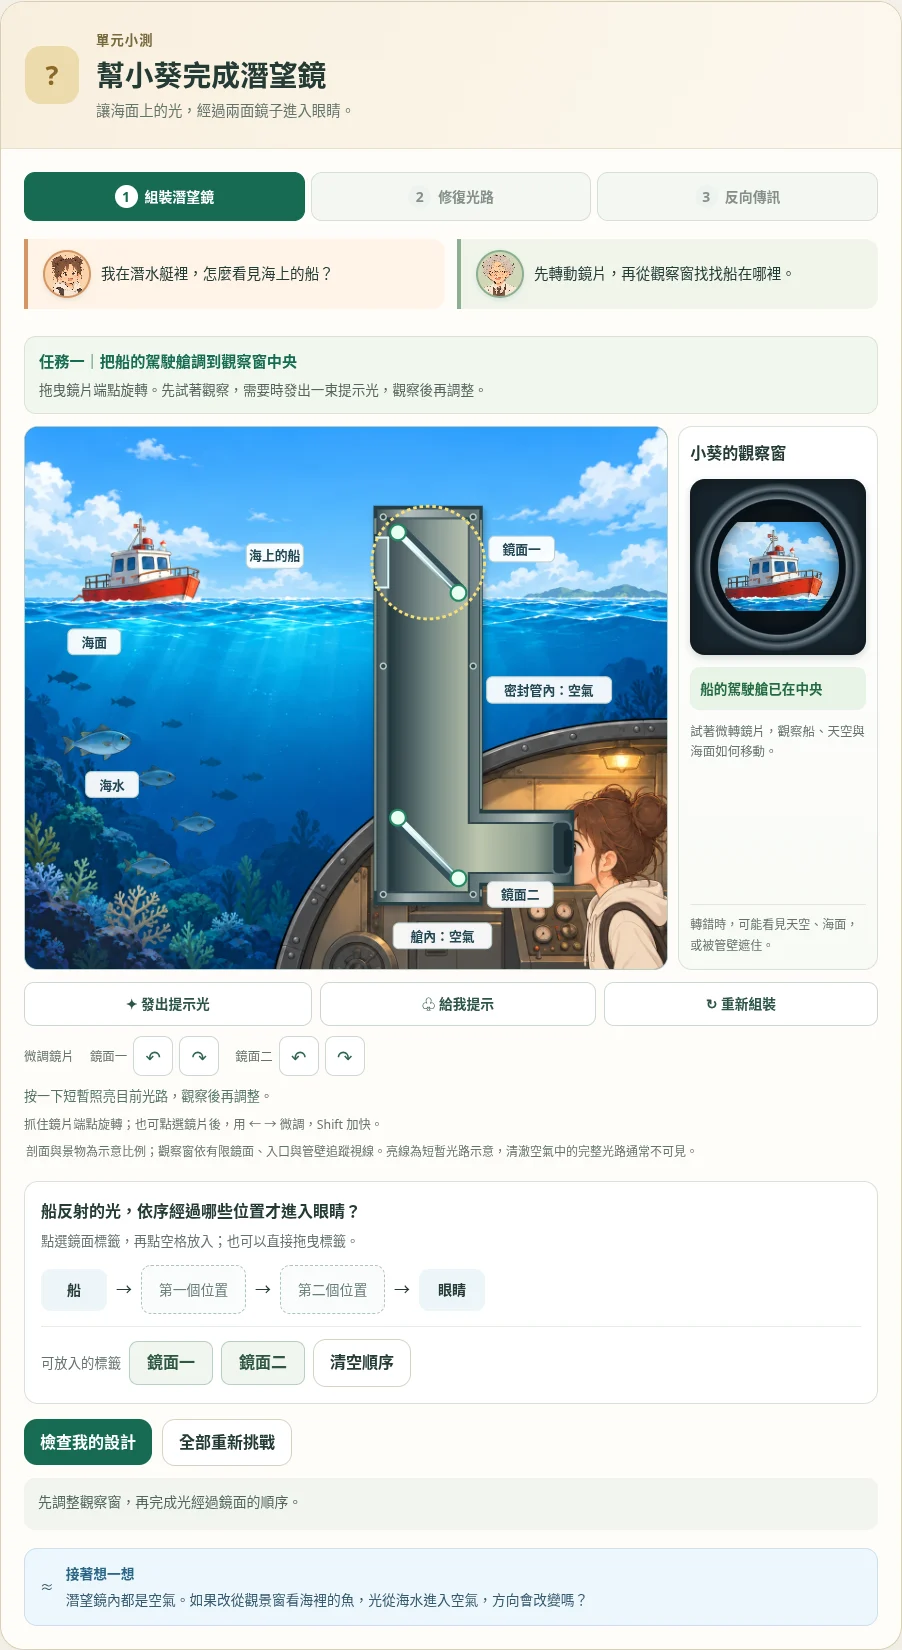
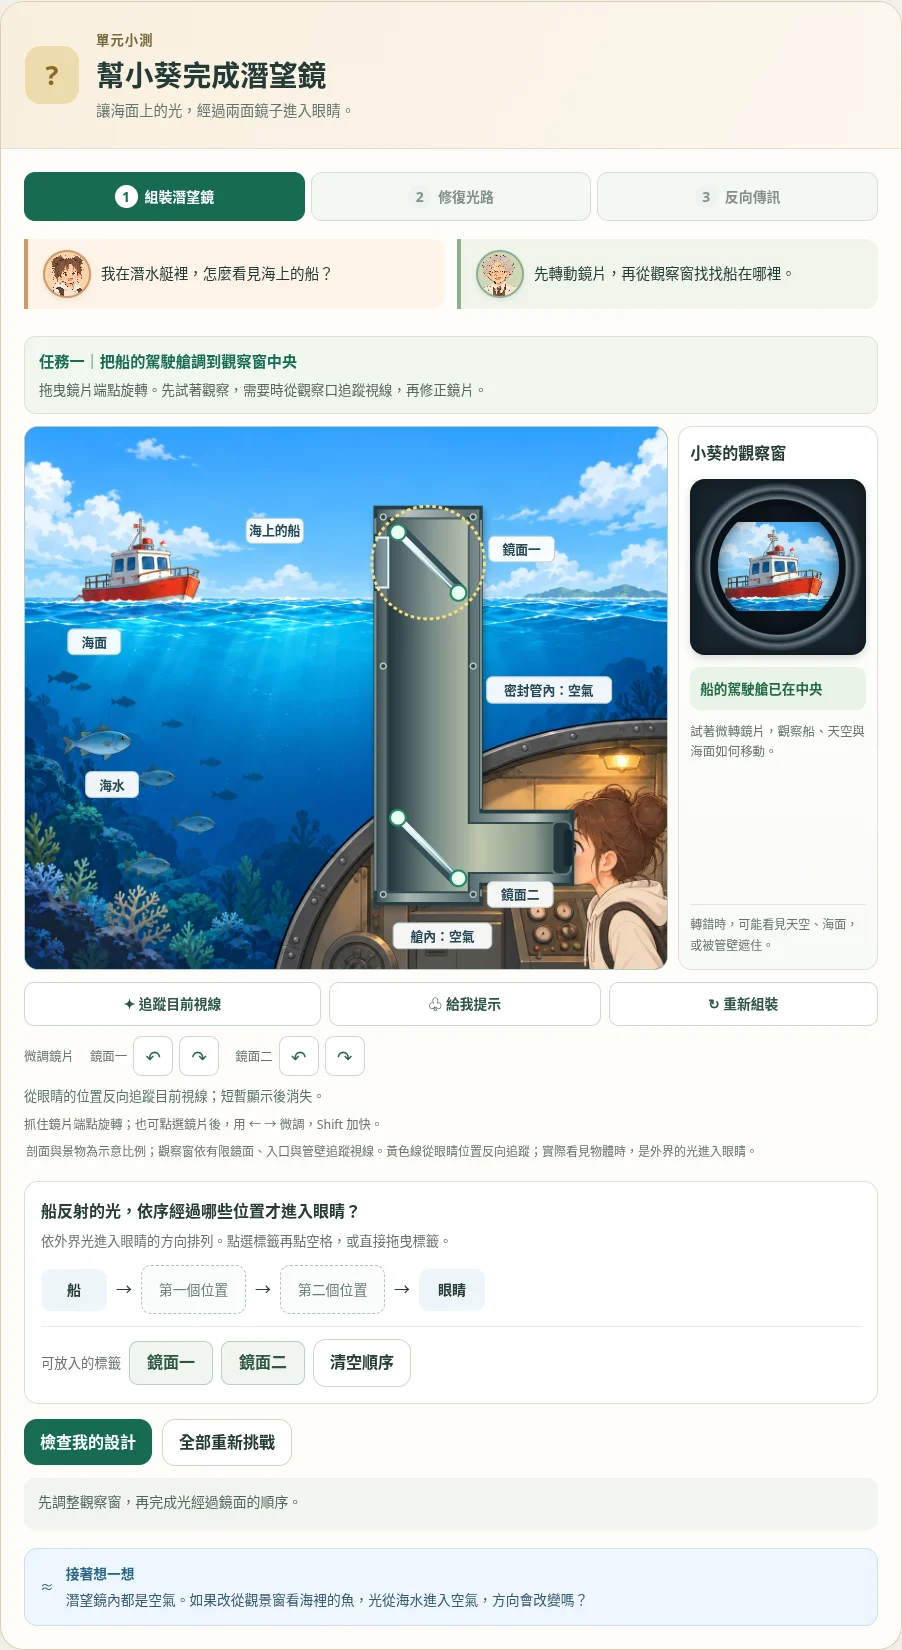
Trace every periscope hint outward from Xiaokui's eye position

diff --git a/units/1/parts/1.2/index.html b/units/1/parts/1.2/index.html
@@ -402,7 +402,7 @@
                 <div class="dialogue dialogue--xiaokui"><span class="speaker"><span class="visually-hidden">小葵</span></span><p id="periscope-student">我在潛水艇裡，怎麼看見海上的船？</p></div>
                 <div class="dialogue"><span class="speaker"><span class="visually-hidden">阿公</span></span><p id="periscope-grandpa">先轉動鏡片，再從觀察窗找找船在哪裡。</p></div>
               </div>
-              <div class="periscope-task"><div><strong id="periscope-task-title">任務一｜把船的駕駛艙調到觀察窗中央</strong><p id="periscope-task-copy">拖曳鏡片端點旋轉。先試著觀察，需要時發出一束提示光，觀察後再調整。</p></div></div>
+              <div class="periscope-task"><div><strong id="periscope-task-title">任務一｜把船的駕駛艙調到觀察窗中央</strong><p id="periscope-task-copy">拖曳鏡片端點旋轉。先試著觀察，需要時從觀察口追蹤視線，再修正鏡片。</p></div></div>
               <div class="periscope-workspace">
                 <div class="periscope-cutaway">
                   <svg id="periscope-scene" viewBox="0 0 900 760" role="group" aria-labelledby="periscope-scene-title periscope-scene-desc">
@@ -432,13 +432,13 @@
                 </div>
                 <aside class="periscope-view" aria-label="從潛望鏡看到的景象"><h3>小葵的觀察窗</h3><div class="periscope-lens-frame"><canvas id="periscope-view" width="240" height="240" role="img" aria-label="觀察窗載入中"></canvas></div><div id="periscope-view-state" class="periscope-view-state" role="status">正在準備觀察窗…</div><p id="periscope-view-copy">景象隨鏡片轉動；管壁擋住的區域會變暗。</p><div class="periscope-view-meter">轉錯時，可能看見天空、海面，或被管壁遮住。</div></aside>
               </div>
-              <div class="periscope-controls"><button type="button" id="periscope-pulse" aria-describedby="periscope-pulse-note">✦ 發出提示光</button><button type="button" id="periscope-hint">♧ 給我提示</button><button type="button" id="periscope-reset-stage">↻ 重新組裝</button><button type="button" id="periscope-signal" class="periscope-signal" aria-pressed="false" hidden disabled>發送訊號光</button></div>
+              <div class="periscope-controls"><button type="button" id="periscope-pulse" aria-describedby="periscope-pulse-note">✦ 追蹤目前視線</button><button type="button" id="periscope-hint">♧ 給我提示</button><button type="button" id="periscope-reset-stage">↻ 重新組裝</button><button type="button" id="periscope-signal" class="periscope-signal" aria-pressed="false" hidden disabled>發送訊號光</button></div>
               <div class="periscope-fine" id="periscope-fine" role="group" aria-label="鏡片精細調整"><span>微調鏡片</span><div><span>鏡面一</span><button type="button" data-fine="0,-0.5" aria-label="鏡面一逆時針微調半度">↶</button><button type="button" data-fine="0,0.5" aria-label="鏡面一順時針微調半度">↷</button></div><div><span>鏡面二</span><button type="button" data-fine="1,-0.5" aria-label="鏡面二逆時針微調半度">↶</button><button type="button" data-fine="1,0.5" aria-label="鏡面二順時針微調半度">↷</button></div></div>
-              <p class="periscope-pulse-note" id="periscope-pulse-note" role="status">按一下短暫照亮目前光路，觀察後再調整。</p>
+              <p class="periscope-pulse-note" id="periscope-pulse-note" role="status">從眼睛的位置反向追蹤目前視線；短暫顯示後消失。</p>
               <p class="periscope-keyboard" id="periscope-drag-help">抓住鏡片端點旋轉；也可點選鏡片後，用 ← → 微調，Shift 加快。</p>
               <p class="periscope-hint" id="periscope-hint-copy" role="status" hidden></p>
-              <p class="periscope-model-note">剖面與景物為示意比例；觀察窗依有限鏡面、入口與管壁追蹤視線。亮線為短暫光路示意，清澈空氣中的完整光路通常不可見。</p>
-              <div class="periscope-question" id="periscope-question-0"><h3>船反射的光，依序經過哪些位置才進入眼睛？</h3><p>點選鏡面標籤，再點空格放入；也可以直接拖曳標籤。</p><div class="periscope-order"><span class="path-end">船</span><span aria-hidden="true">→</span><button type="button" class="periscope-slot" data-slot="0" aria-label="第一個反射位置，尚未填入">第一個位置</button><span aria-hidden="true">→</span><button type="button" class="periscope-slot" data-slot="1" aria-label="第二個反射位置，尚未填入">第二個位置</button><span aria-hidden="true">→</span><span class="path-end">眼睛</span></div><div class="periscope-chips"><small>可放入的標籤</small><button type="button" draggable="true" class="periscope-chip" data-chip="0" aria-pressed="false">鏡面一</button><button type="button" draggable="true" class="periscope-chip" data-chip="1" aria-pressed="false">鏡面二</button><button type="button" id="periscope-clear-order" class="secondary">清空順序</button></div></div>
+              <p class="periscope-model-note">黃色輔助線從小葵的眼睛位置反向追蹤視線。實際看見物體時，是外界的光進入眼睛；剖面與景物為示意比例。</p>
+              <div class="periscope-question" id="periscope-question-0"><h3>船反射的光，依序經過哪些位置才進入眼睛？</h3><p>依外界光進入眼睛的方向排列。點選標籤再點空格，或直接拖曳標籤。</p><div class="periscope-order"><span class="path-end">船</span><span aria-hidden="true">→</span><button type="button" class="periscope-slot" data-slot="0" aria-label="第一個反射位置，尚未填入">第一個位置</button><span aria-hidden="true">→</span><button type="button" class="periscope-slot" data-slot="1" aria-label="第二個反射位置，尚未填入">第二個位置</button><span aria-hidden="true">→</span><span class="path-end">眼睛</span></div><div class="periscope-chips"><small>可放入的標籤</small><button type="button" draggable="true" class="periscope-chip" data-chip="0" aria-pressed="false">鏡面一</button><button type="button" draggable="true" class="periscope-chip" data-chip="1" aria-pressed="false">鏡面二</button><button type="button" id="periscope-clear-order" class="secondary">清空順序</button></div></div>
               <div class="periscope-question" id="periscope-question-1" hidden><h3>哪一片鏡子被轉動了？</h3><p>比較原本的路線，先作判斷，再試著修復。</p><div class="periscope-choice-row"><button class="periscope-answer" type="button" data-diagnosis="0" aria-pressed="false">鏡面一</button><button class="periscope-answer" type="button" data-diagnosis="1" aria-pressed="false">鏡面二</button></div></div>
               <div class="periscope-question" id="periscope-question-2" hidden><h3>鏡子不動，從眼睛的位置沿原光路反向發出訊號，會怎麼走？</h3><p>先預測，再按「發送訊號光」比較藍光與原本的路線。</p><div class="periscope-answer-list"><button class="periscope-answer" type="button" data-prediction="same" aria-pressed="false">沿完整的原路徑返回，從上方入口照向船。</button><button class="periscope-answer" type="button" data-prediction="inside" aria-pressed="false">只有管內的路徑重合，離開入口後方向會不同。</button><button class="periscope-answer" type="button" data-prediction="turn" aria-pressed="false">兩次反射後會換一條路，需要再調鏡子才能照向船。</button></div></div>
               <div class="periscope-footer"><button type="button" id="periscope-check" class="action">檢查我的設計</button><button type="button" id="periscope-next" class="action" hidden>前往修復光路 →</button><button type="button" id="periscope-restart" class="secondary">全部重新挑戰</button></div>
@@ -474,6 +474,6 @@
   <script type="module" src="assets/reflection-3d.js?v=46"></script>
   <script type="module" src="assets/laser-reflection.js?v=36"></script>
   <script type="module" src="assets/reversible-light.js?v=3"></script>
-  <script type="module" src="assets/periscope.js?v=5"></script>
+  <script type="module" src="assets/periscope.js?v=6"></script>
 </body>
 </html>

diff --git a/units/1/parts/1.2/assets/periscope.js b/units/1/parts/1.2/assets/periscope.js
@@ -1,4 +1,4 @@
-import {OPTICS, mirror, viewRay, exteriorSample, observe, traceRay, returnSignal} from './periscope-optics.mjs';
+import {OPTICS, mirror, viewRay, exteriorSample, observe, traceSightline, returnSignal} from './periscope-optics.mjs?v=2';
 import {FLASH_MS,STATIC_FLASH_MS,REST_MS,pulseOpacity} from './periscope-pulse.mjs?v=2';
 
 const root=document.querySelector('#unit-quiz');
@@ -35,10 +35,6 @@ if(root) {
       add(`M${x-dx*13-dy*7},${y-dy*13+dx*7}L${x},${y}L${x-dx*13+dy*7},${y-dy*13-dx*7}`,'light-arrow',color);
     }
   }
-  function forwardRay() {
-    const ray=traceRay([508.0001,190,0],[1,0,0],state.angles);
-    return {...ray,points:[[170,190,0],...ray.points]};
-  }
   function signalPoints(result) {
     const points=result.ray.points.map(p=>[...p]);
     if(result.endpoint)points.push(result.endpoint);
@@ -74,10 +70,10 @@ if(root) {
     root.dataset.pulseStatus=busy?'running':waiting?'cooldown':'idle';
     const button=$('#periscope-pulse');
     button.hidden=state.stage===2;button.disabled=busy||waiting;
-    button.textContent=busy?'✦ 提示光亮起':waiting?'✦ 稍後可再試':'✦ 發出提示光';
+    button.textContent=busy?'✦ 視線追蹤中':waiting?'✦ 稍後可再試':'✦ 追蹤目前視線';
     $('#periscope-hint').disabled=state.stage!==2&&(busy||waiting);
     $('#periscope-pulse-note').hidden=state.stage===2;
-    $('#periscope-pulse-note').textContent=busy?'這次光路短暫亮起，看看光在哪裡反射或被擋住。':waiting?'提示光已熄滅。先調整鏡片，再試一次。':'按一下短暫照亮目前光路，觀察後再調整。';
+    $('#periscope-pulse-note').textContent=busy?'從小葵的觀察口出發，看看這次視線通往哪裡。':waiting?'追蹤已結束。先調整鏡片，再追蹤一次。':'從眼睛的位置反向追蹤目前視線；短暫顯示後消失。';
   }
   function cancelPulse(reset=false) {
     cancelAnimationFrame(pulseFrame);clearTimeout(pulseEndTimer);pulse=null;
@@ -114,7 +110,7 @@ if(root) {
     const now=performance.now();
     if(state.stage===2 || pulse || dragging || document.hidden || now<nextPulseAt)return;
     const duration=reducedMotion.matches?STATIC_FLASH_MS:FLASH_MS;
-    const shot={ray:forwardRay(),opacity:reducedMotion.matches?1:0,showNormal:state.hint>=2};
+    const shot={ray:traceSightline(state.angles),opacity:reducedMotion.matches?1:0,showNormal:state.hint>=2};
     pulse=shot;nextPulseAt=now+duration+REST_MS;root.dataset.pulseId=String(++pulseCount);
     render();
     const animate=time=>{
@@ -190,6 +186,7 @@ if(root) {
     $('#periscope-next').hidden=!state.done[state.stage]||state.stage===2;$('#periscope-next').textContent=state.stage===0?'前往修復光路 →':'前往反向傳訊 →';
     $('#periscope-complete').hidden=!state.done[2];
     $('#periscope-drag-help').textContent=state.stage===2?'這一關固定鏡面。先預測，再比較黃色原路線與藍色訊號光。':'抓住鏡片端點旋轉；也可點選鏡片後，用 ← → 微調，Shift 加快。';
+    $('.periscope-model-note').textContent=state.stage===2?'黃色是原本進入眼睛的光路，藍色訊號光從原眼睛位置反向發出；剖面與景物為示意比例。':'黃色輔助線從小葵的眼睛位置反向追蹤視線。實際看見物體時，是外界的光進入眼睛；剖面與景物為示意比例。';
     drawOptics();renderView();
   }
   function schedule(){if(!pending)pending=requestAnimationFrame(render);}
@@ -247,7 +244,7 @@ if(root) {
   $$('[data-prediction]').forEach(b=>b.addEventListener('click',()=>{invalidate();state.prediction=b.dataset.prediction;state.verified=false;state.signal=false;render();}));
   $('#periscope-pulse').addEventListener('click',emitPulse);
   const hints=[
-    ['先讓眼睛收到下方鏡片反射的光，再觀察上方鏡片把視線帶向哪裡。','看天空或海面時，外界光路仍接通；全暗則先檢查視線有沒有撞上管壁。','沿法線比較入射與反射方向。若出現光斑，表示這條光在那裡被擋住。'],
+    ['先確認視線能到下方鏡片，再觀察上方鏡片把視線帶向哪裡。','看天空或海面時，外界光路仍接通；全暗則先檢查視線有沒有撞上管壁。','沿法線比較入射與反射方向。若出現光斑，表示這條光在那裡被擋住。'],
     ['故障前，下方鏡片已把光送進眼睛。先比較光路從哪一處開始偏離。','法線與鏡面垂直。每一處反射都要讓入射角等於反射角。','只剩天空不代表光消失了，而是看向了另一個方向。'],
     ['將傳播方向反過來，入射線與反射線的角色會交換。','鏡子固定時，同一反射點兩側的角度仍相等。','藍光由原本眼睛的位置出發；比較它和黃色原路線是否完整重合。']
   ];
@@ -258,8 +255,8 @@ if(root) {
     cancelPulse(true);state.stage=stage;state.hint=0;state.signal=false;state.verified=false;
     $('#periscope-hint-copy').hidden=true;
     const content=[
-      ['我在潛水艇裡，怎麼看見海上的船？','先轉動鏡片，再從觀察窗找找船在哪裡。','任務一｜把船的駕駛艙調到觀察窗中央','拖曳鏡片端點旋轉。先試著觀察，需要時發出一束提示光，觀察後再調整。'],
-      ['剛才明明看見船，怎麼現在偏向天空了？','先判斷哪片鏡子被轉動，再把景象修回來。','任務二｜找出故障，讓船重新回到中央','先選擇你的判斷，再拖動鏡片修復；需要時可發出一束提示光。'],
+      ['我在潛水艇裡，怎麼看見海上的船？','先轉動鏡片，再從觀察窗找找船在哪裡。','任務一｜把船的駕駛艙調到觀察窗中央','拖曳鏡片端點旋轉。先試著觀察，需要時從觀察口追蹤視線，再修正鏡片。'],
+      ['剛才明明看見船，怎麼現在偏向天空了？','先判斷哪片鏡子被轉動，再把景象修回來。','任務二｜找出故障，讓船重新回到中央','先選擇你的判斷，再拖動鏡片修復；需要時從觀察口反向追蹤視線。'],
       ['我能沿同一條路，把訊號送回船上嗎？','鏡片保持不動，先預測，再發送藍色訊號光。','任務三｜讓訊號沿原光路返回','暫以訊號光源替換眼睛；黃色是原入眼光線，藍光從同一位置反向發出。']
     ][stage];
     ['#periscope-student','#periscope-grandpa','#periscope-task-title','#periscope-task-copy'].forEach((id,i)=>$(id).textContent=content[i]);

diff --git a/docs/reviews/unit-1.2-periscope/review.md b/docs/reviews/unit-1.2-periscope/review.md
@@ -83,3 +83,17 @@
 本輪操作及回歸結果保存於 `flash-tests.log`。
 
 本輪共 **44 項通過、0 失敗**（含外層項目）：潛望鏡 21 項、相鄰第三至六區回歸 23 項。人工對照整束亮起、光斑、熄滅三張截圖，確認全路徑可見、提示光沒有箭頭或圈叉；桌面與手機的角色、觀察窗及操作配置仍正常。
+
+## 提示起點：由眼睛位置反向追蹤（2026-10-28）
+
+使用者要求提示一律從小葵眼睛所在的觀察口出發，依當下鏡片角度前進。已移除原本「固定船上物點→上方鏡片」的提示，改用 `traceSightline()`，起點固定為 `[755,590,0]`，初始方向向左，與觀察窗的中央視線相同。
+
+- 下方鏡片偏轉時，可在尚未到上方鏡片前撞到管壁。上方鏡片偏轉時，延伸可能指向海面或天空；不論是否對準船，都從相同眼位出發。
+- 管內沿用有限鏡片、鏡背及封閉管道的三維追跡。管外保持出射方向，以插畫船體的粗略輪廓、海面 y=250 或畫面上／左邊界裁切。船體輪廓為插畫顯示近似，並非完整三維船體；觀察窗遠景取樣比例與剖面不同的限制維持原紀錄。
+- 一般提示與「給我提示」共用同一眼位追跡。約一秒亮起、無箭頭與圈叉、撞壁光斑、微調／拖曳立即取消等行為維持。
+- 按鈕改為「追蹤目前視線」，明示輔助線從眼位反向追蹤；真實看見物體仍是外界光進入眼睛。順序題依真實入眼方向作答。第三關分別說明黃色原入眼紀錄與藍色反向訊號，避免方向混淆。
+- 以 1296 組角度驗證起點固定、內部路徑與中央視線完全重合、遮擋立即停止、出管後保持直線且不進入海水。另在實際瀏覽器檢查未對準、對船、海面、天空與下方偏轉五組設定，確認提示不跳接上方鏡片或船。
+
+截圖 `eye-origin-blocked.webp`、`eye-origin-boat.webp`、`eye-origin-sea.webp`、`eye-origin-sky.webp` 皆在啟動後 150ms 凍結瀏覽器時鐘擷取，供人工核對同一觀察口起點；實際互動與消失仍用實際計時驗證。檢查紀錄保存於 `eye-origin-tests.log`。
+
+本輪共 **46 項通過、0 失敗**（含外層項目）：潛望鏡 23 項、第三至六區回歸 23 項。四張實際截圖人工核對：所有路線都接到同一觀察口，預設錯誤角度僅到下方鏡片後撞壁；對準、海面與天空三種情況皆由同一眼位起始，沒有固定船端起點或跳接。照片中小葵造型維持雙丸子頭及白色帽兜。

diff --git a/tests/README.md b/tests/README.md
@@ -125,7 +125,7 @@ CHROMIUM_PATH=/usr/bin/chromium node --test --test-concurrency=1 tests/unit-1.2-
 
 與第三至六區循序執行回歸，避免多個軟體 WebGL 瀏覽器競用。實體點擊前取消平滑捲動並確認座標穩定，不以強制點擊略過命中問題。觀察窗取樣核對使用相同 Canvas CPU 色彩取樣方式，以免 GPU／CPU 縮圖插值差異被誤判為光路偏差。整卡截圖暫隱藏外側 sticky 導覽，避免離開視窗的部分在長截圖中混入懸浮導覽；正式頁面不隱藏導覽。截圖與人工對照保留在 `docs/reviews/unit-1.2-periscope/`。
 
-潛望鏡提示光已改為整束實際光路短暫亮起後熄滅。另檢查顯示路徑與獨立追跡完全一致、沒有箭頭／移動光點／圈叉、撞壁光斑位於真實交點、快速連點不疊加或延長、自動消失及空檔、拖曳／微調立即取消、「給我提示」與法線／光斑一併收起、重設／換關取消舊計時器、第三關比較線不被過期動畫清除，以及減少動態與手機觸控。淡出曲線純函式與實際 SVG 路徑、時間及畫面分別核對。
+潛望鏡提示光已改為整束實際光路短暫亮起後熄滅。另檢查顯示路徑與獨立追跡完全一致、沒有箭頭／移動光點／圈叉、撞壁光斑位於真實交點、快速連點不疊加或延長、自動消失及空檔、拖曳／微調立即取消、「給我提示」與法線／光斑一併收起、重設／換關取消舊計時器、第三關比較線不被過期動畫清除，以及減少動態與手機觸控。淡出曲線純函式與實際 SVG 路徑、時間及畫面分別核對。 提示已改為從小葵眼位反向追蹤，另以 1296 組角度比對中央視線，並實際檢查五組船／天空／海面／遮擋設定的 SVG 起點一律為眼位，管外直線延伸不自動接船。
 
 ## 5.1 統一為 3.2 頁面版型
 

diff --git a/units/1/parts/1.2/storyline.md b/units/1/parts/1.2/storyline.md
@@ -123,3 +123,9 @@
 ### 提示光視覺修訂：整束短暫亮起（2026-10-28）
 
 使用者指出移動短線、箭頭與圈叉的畫面不自然，核可改為整條當次實際光路短暫亮起，再整體熄滅。提示約 0.95 秒，沒有移動光點或箭頭，撞壁處只留與光線一同淡出的柔和光斑；船標籤上移，確保入射線不被遮住。每次結束保留 1.1 秒空檔，調整即取消，維持先觀察再修正的難度。此修訂取代上節的短光段及叉號策略；光學幾何與三關評量維持原設計。
+
+### 提示起點修正：由小葵的觀察口出發（2026-10-28）
+
+使用者明確要求提示一律從小葵眼睛位置發射，依當時鏡片角度前進，不保證能到船。移除原本固定從船發出的示例光線，改為使用觀察窗中央視線的同一起點與方向：觀察口→下方鏡面二→上方鏡面一→外界；碰到管壁或鏡背就停止。管外保持出管方向，延伸至插畫船體、海面或畫面邊界，沒有自動連到船的步驟。
+
+按鈕改為「追蹤目前視線」，文字註明這是由眼睛位置反向追蹤的輔助線；實際看見物體仍由外界光進入眼睛。順序題明示依實際入眼方向作答，第三關的原入眼紀錄與反向訊號各自標明。約一秒短暫亮起、調整即清除、無箭頭或圈叉的呈現維持。

diff --git a/units/1/parts/1.2/assets/README.md b/units/1/parts/1.2/assets/README.md
@@ -46,3 +46,7 @@
 - 圖片與人物維持前次小葵修正版；新按鈕不再使用開關式 `aria-pressed`，顯示狀態以簡短文字提示。
 
 2026-10-28 視覺修訂：依使用者回饋取消移動短線、大箭頭及圈叉；一次短暫照亮整條實際路徑，撞壁處只繪柔和光斑。船的標籤上移，避免遮住完整入射線。
+
+### 觀察口起點
+
+`periscope-optics.mjs` 新增 `traceSightline()`：由 `OPTICS.eye` 沿與觀察窗中央相同的方向追跡，管內完全共用鏡面／管壁交點；管外以同一直線與插畫船體粗略輪廓、海面及畫面邊界相交，不穿入水下或刻意連到船。這層插畫輪廓只用於顯示終點，觀察窗仍採前述遠方圖像取樣模型。`periscope.js` 的一般提示及文字提示都改用此函式，移除固定船端光源；第三關訊號本來即由原眼位發出。
